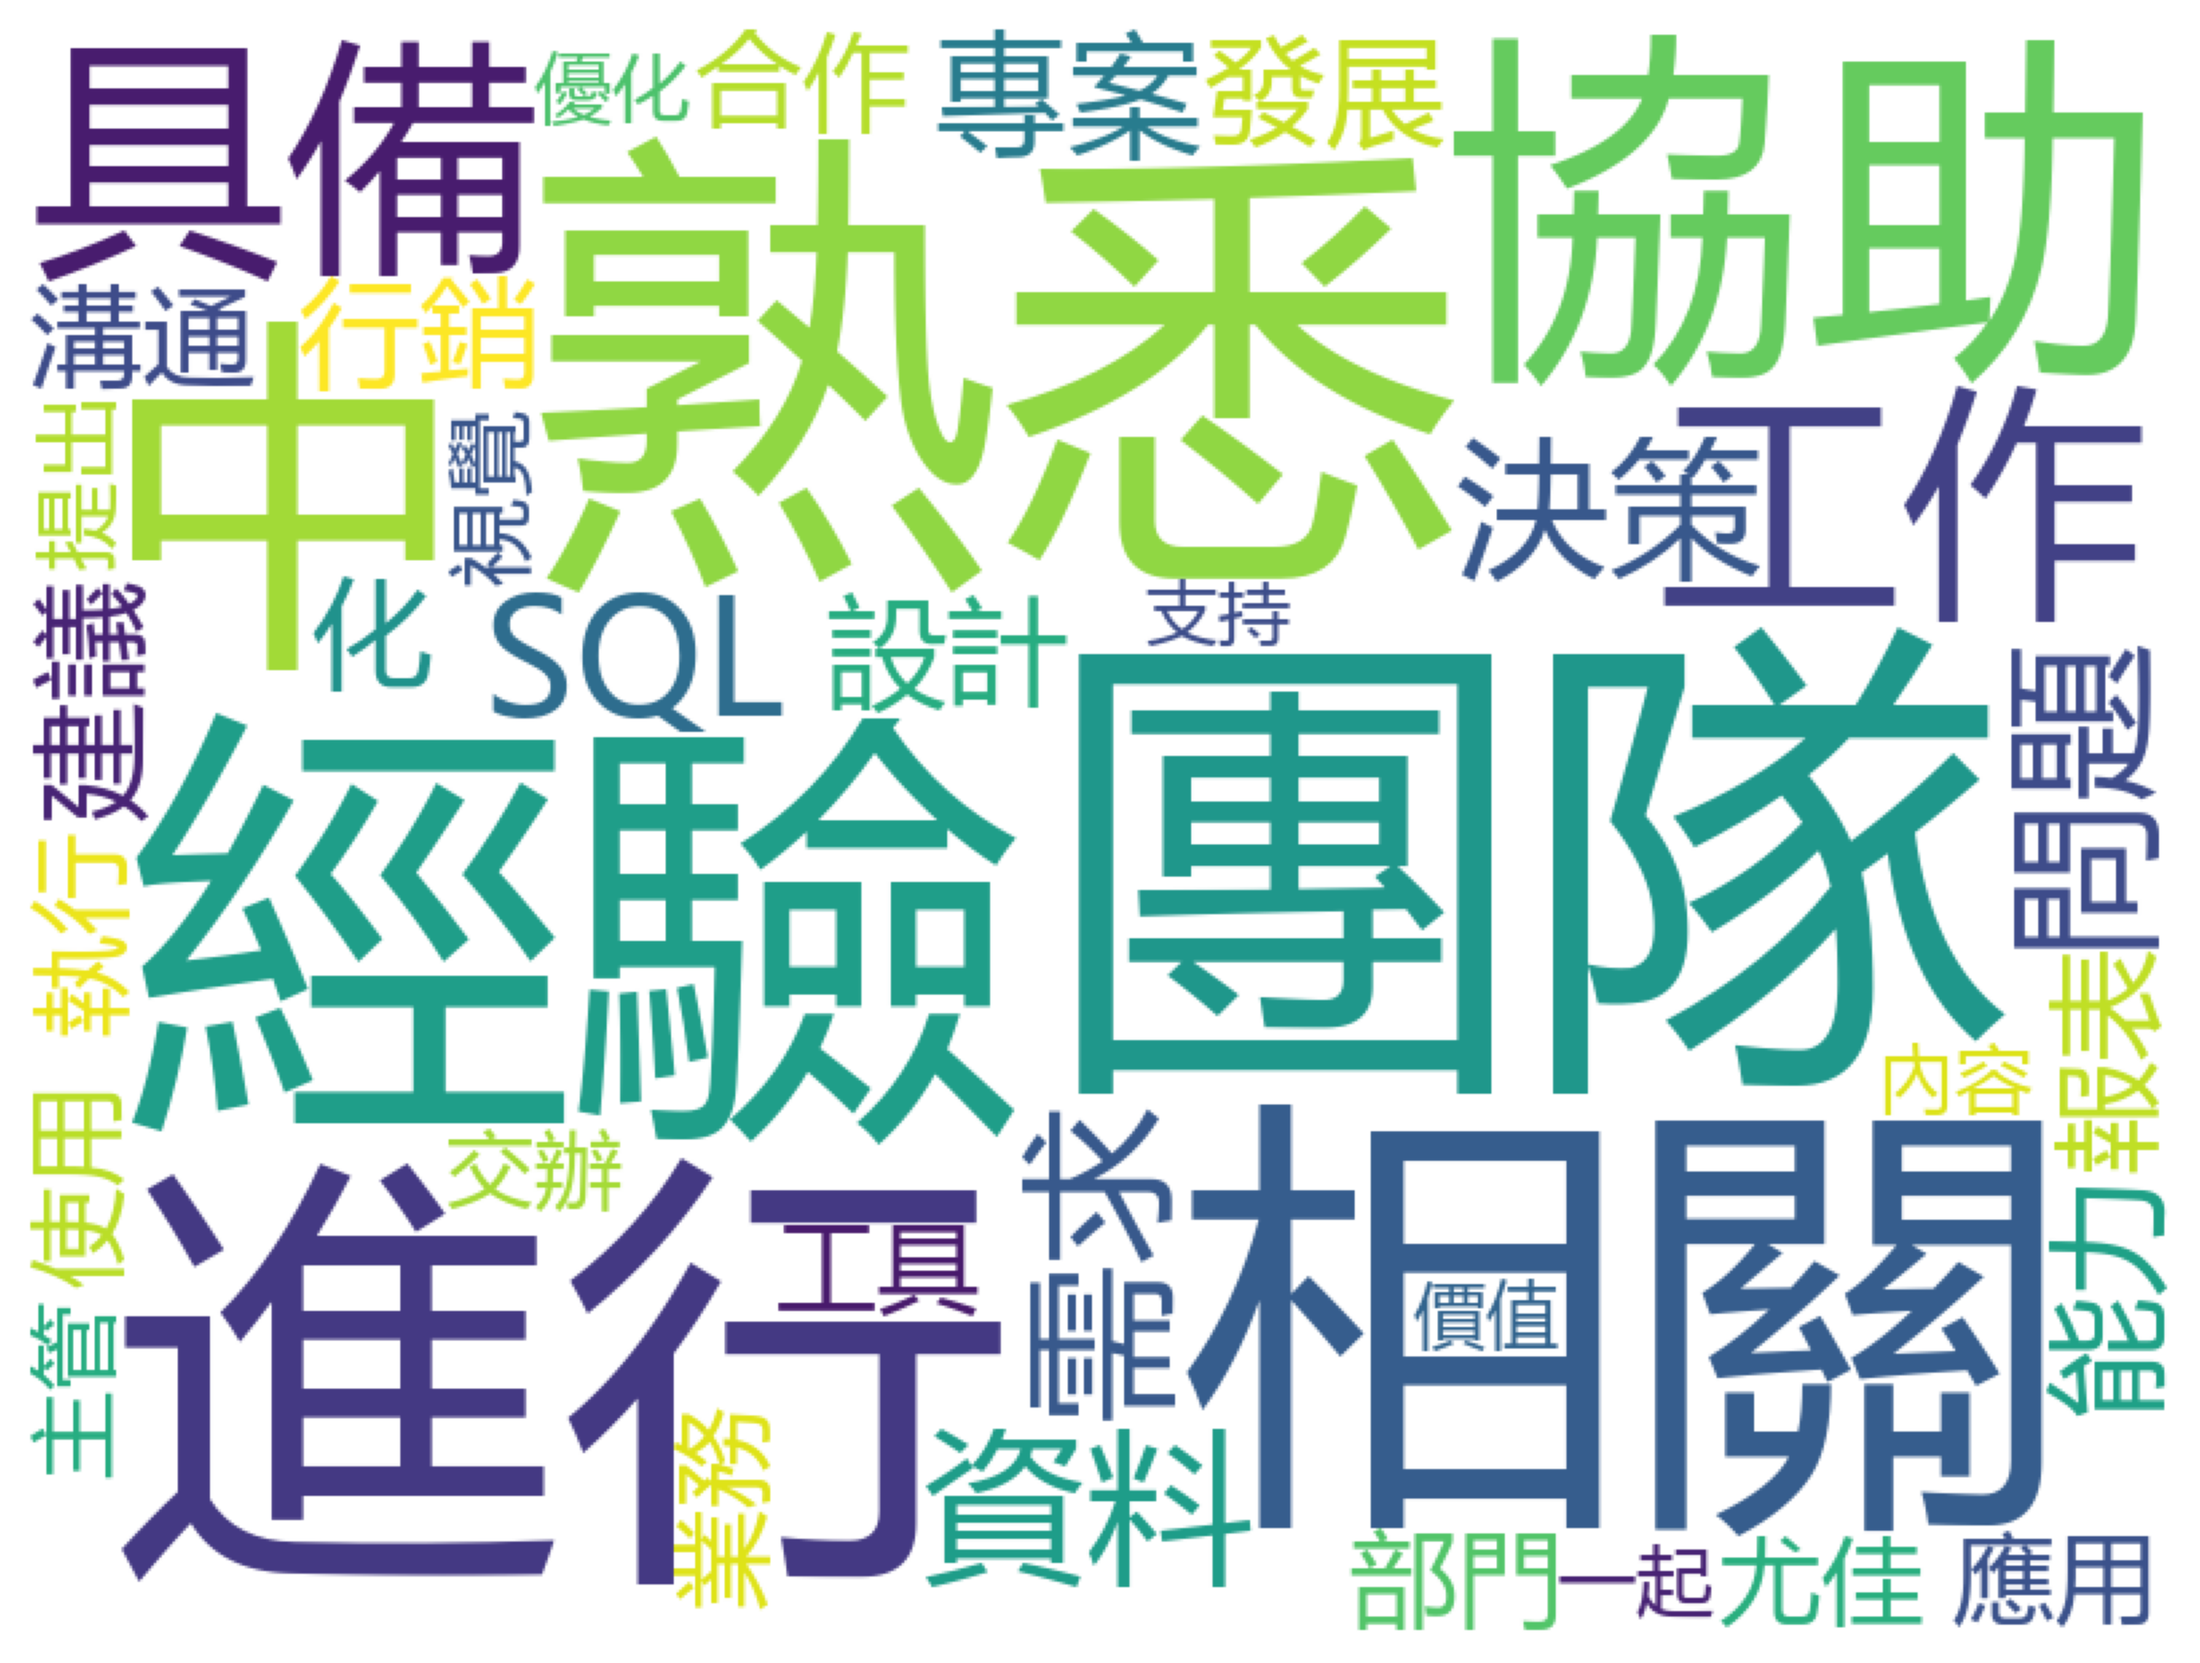
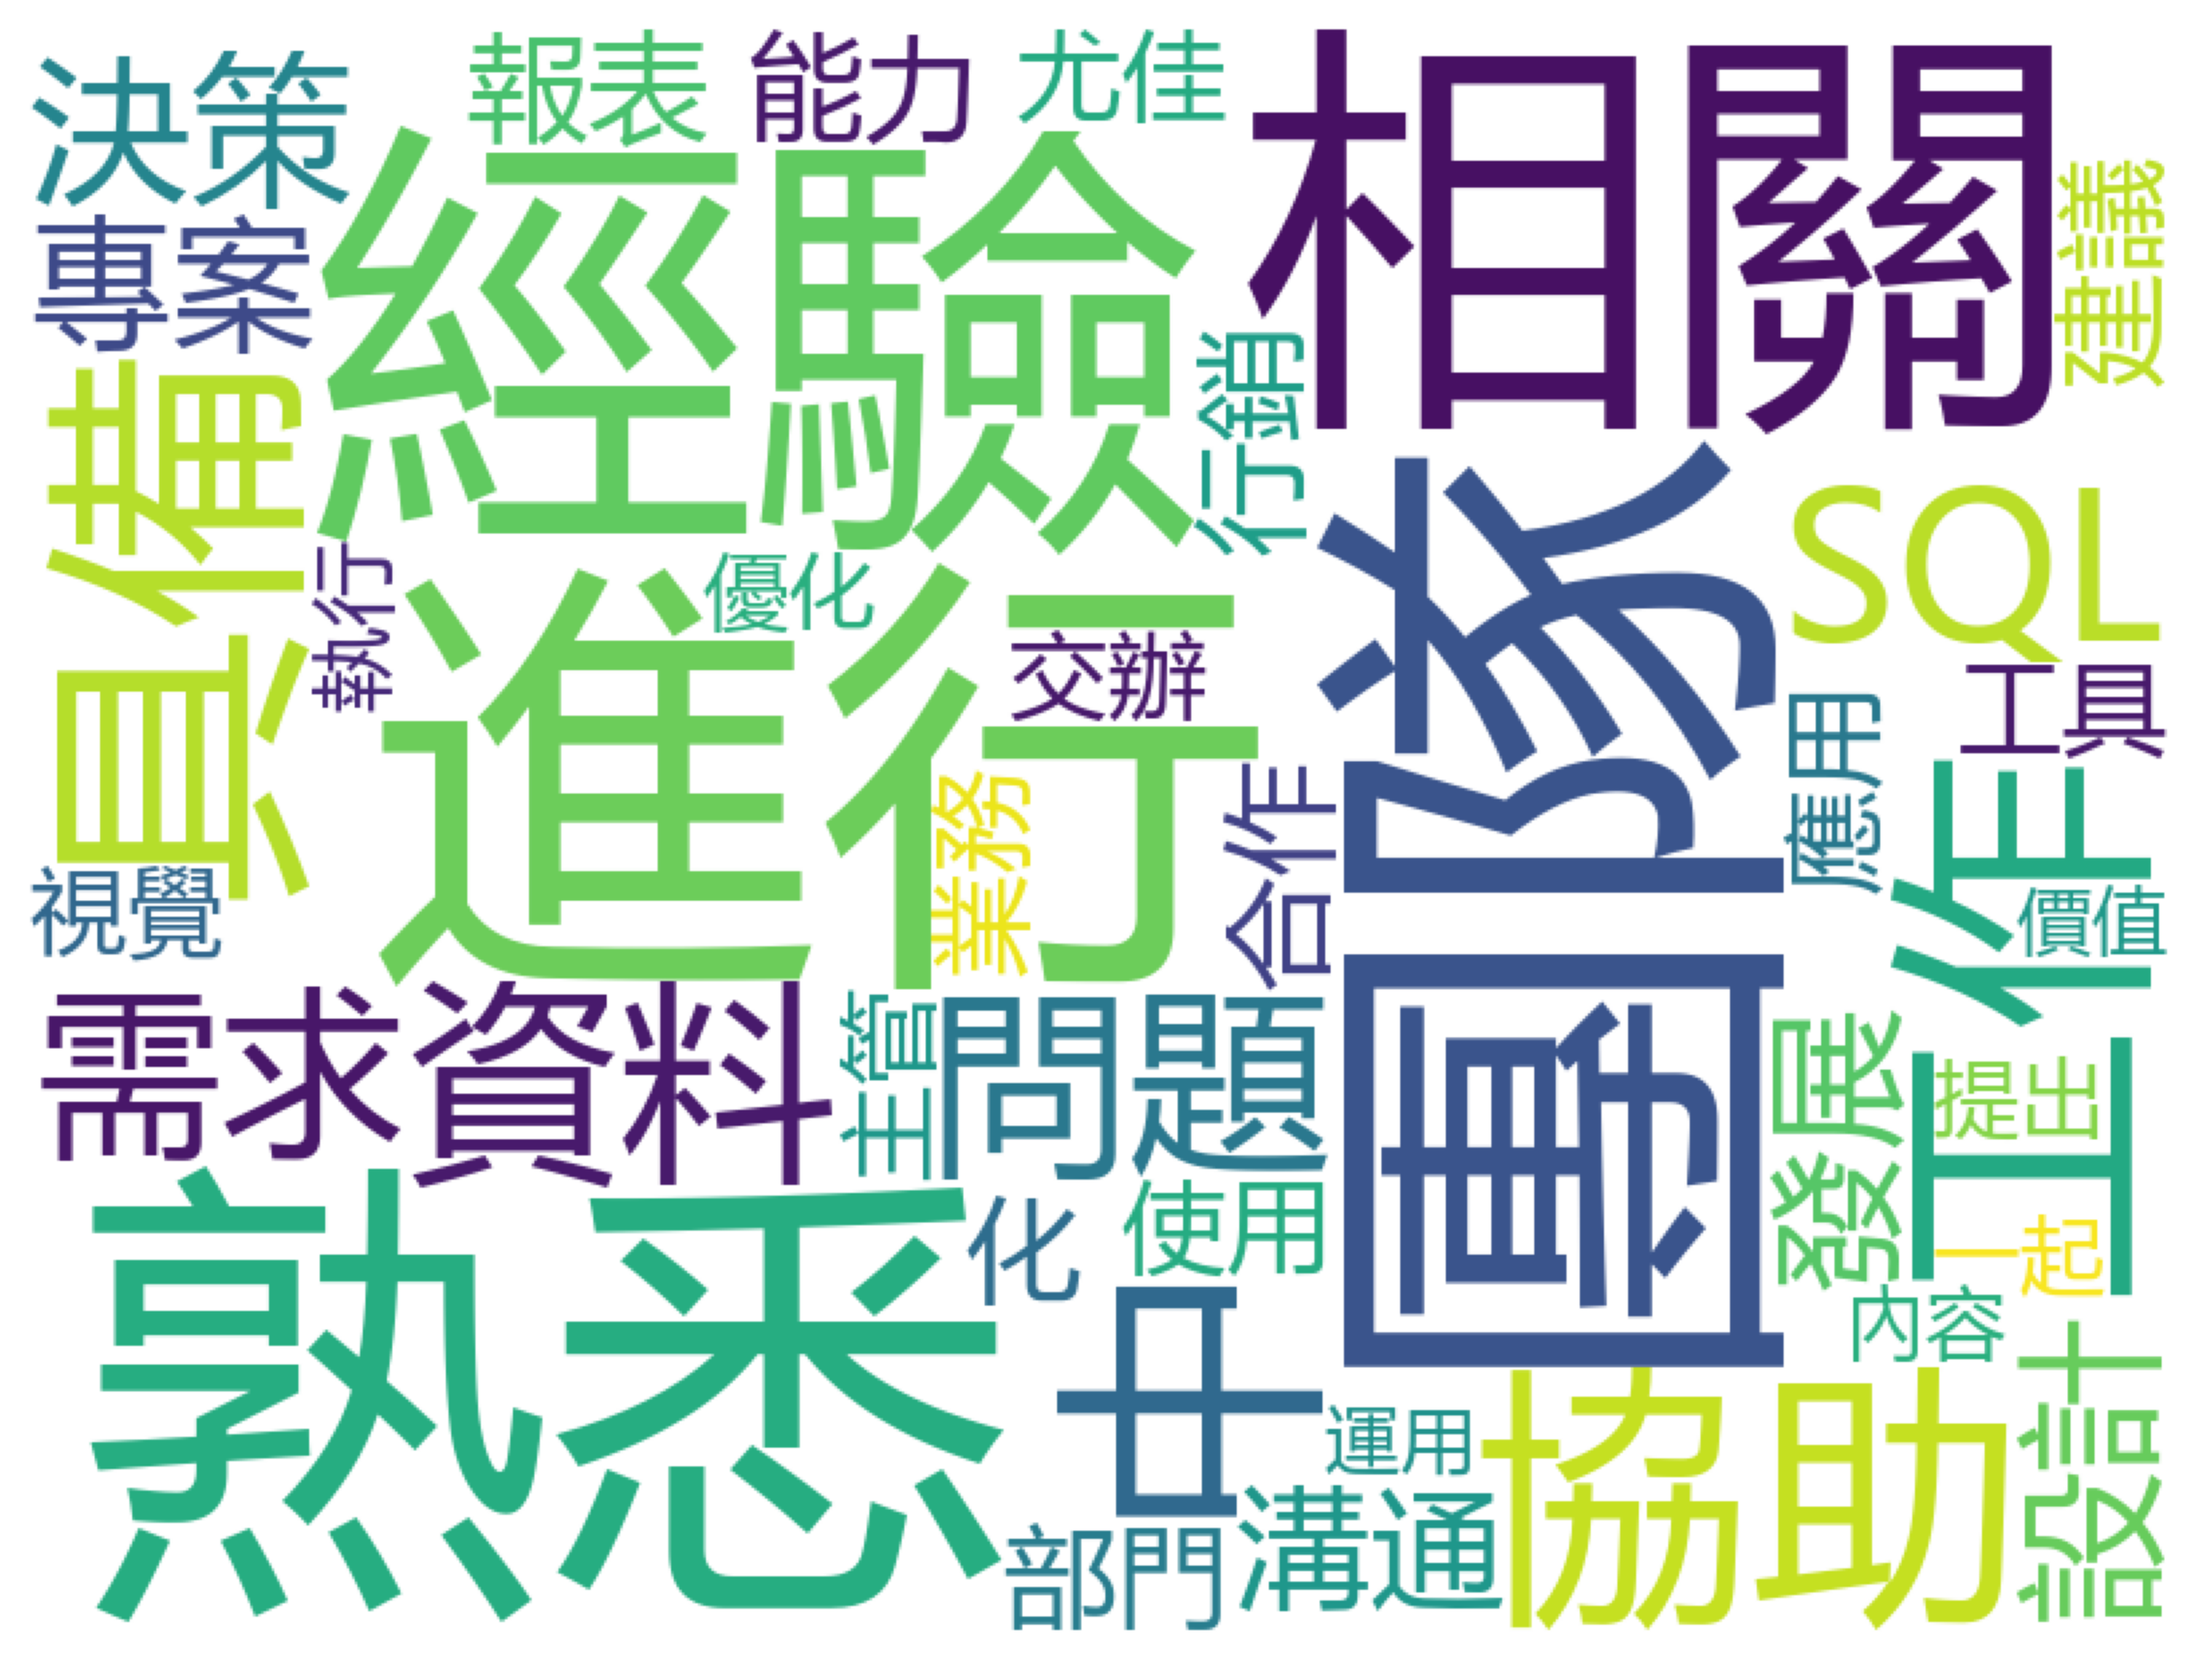
工作內容主題分析

diff --git a/104_an.py b/104_an.py
@@ -8,6 +8,8 @@ import warnings
 import jieba
 import wordcloud
 from PIL import Image
+from sklearn.feature_extraction.text import CountVectorizer
+from sklearn.decomposition import LatentDirichletAllocation
 warnings.filterwarnings('ignore')
 
 def extract_city(location):
@@ -429,40 +431,6 @@ def text_cut(sentence):
     ]
     return sentence_cut
 
-def process_jobs():
-    try:
-        # 讀取原始 CSV 檔案
-        df = pd.read_csv('104_jobs.csv', encoding='utf-8-sig')
-        
-        # 轉換工作地點為城市名稱
-        df['工作地點'] = df['工作地點'].apply(extract_city)
-        
-        # 轉換薪資為月薪平均值
-        df['薪資範圍'] = df['薪資範圍'].apply(convert_salary_to_monthly_avg)
-        
-        # 儲存新的 CSV 檔案
-        df.to_csv('104_re.csv', encoding='utf-8-sig', index=False)
-        print("已成功創建新的 CSV 檔案：104_re.csv")
-        
-        # 呼叫繪圖函數
-        plot_skills_and_categories(df)
-        
-        # 執行工具關聯性分析
-        analyze_tool_associations(df)
-        
-        # 執行薪資十分位數分析
-        analyze_salary_percentiles(df)
-
-        
-        # 執行學歷占比分析
-        analyze_education_ratio(df)
-
-        # 執行文字雲分析
-        analyze_job_content_wordcloud(df)
-
-    except Exception as e:
-        print(f"處理錯誤：{str(e)}")
-
 def analyze_education_ratio(df):
     """分析學歷占比分布"""
     try:
@@ -514,6 +482,84 @@ def analyze_education_ratio(df):
     except Exception as e:
         print(f"學歷占比分析錯誤：{str(e)}")
 
+def analyze_lda_topics(df):
+    """使用LDA進行主題分析"""
+    try:
+        # 處理工作內容文本
+        df['工作內容2'] = df['工作內容'].apply(lambda x: ' '.join(text_cut(str(x))))
+        
+        # 創建文檔詞頻矩陣
+        tf_vectorizer = CountVectorizer(
+            strip_accents='unicode',
+            max_df=0.5,
+            min_df=10
+        )
+        tf = tf_vectorizer.fit_transform(df['工作內容2'])
+        
+        # 訓練LDA模型
+        lda = LatentDirichletAllocation(
+            n_components=3,
+            max_iter=50,
+            learning_method='online',
+            learning_offset=50.,
+            random_state=0
+        )
+        lda.fit(tf)
+        
+        # 獲取特徵名稱
+        tf_feature_names = tf_vectorizer.get_feature_names_out()
+        
+        # 打印主題
+        with open('工作內容主題分析.txt', 'w', encoding='utf-8') as f:
+            for topic_idx, topic in enumerate(lda.components_):
+                top_words = [tf_feature_names[i] for i in topic.argsort()[:-21:-1]]
+                f.write(f"主題 {topic_idx + 1}:\n")
+                f.write(" ".join(top_words))
+                f.write("\n\n")
+        
+        print("已完成LDA主題分析，結果已保存到 工作內容主題分析.txt")
+        
+    except Exception as e:
+        print(f"LDA主題分析錯誤：{str(e)}")
+        import traceback
+        print(traceback.format_exc())
+
+def process_jobs():
+    try:
+        # 讀取原始 CSV 檔案
+        df = pd.read_csv('104_jobs.csv', encoding='utf-8-sig')
+        
+        # 轉換工作地點為城市名稱
+        df['工作地點'] = df['工作地點'].apply(extract_city)
+        
+        # 轉換薪資為月薪平均值
+        df['薪資範圍'] = df['薪資範圍'].apply(convert_salary_to_monthly_avg)
+        
+        # 儲存新的 CSV 檔案
+        df.to_csv('104_re.csv', encoding='utf-8-sig', index=False)
+        print("已成功創建新的 CSV 檔案：104_re.csv")
+        
+        # 呼叫繪圖函數
+        plot_skills_and_categories(df)
+        
+        # 執行工具關聯性分析
+        analyze_tool_associations(df)
+        
+        # 執行薪資十分位數分析
+        analyze_salary_percentiles(df)
+
+        
+        # 執行學歷占比分析
+        analyze_education_ratio(df)
+
+        # 執行文字雲分析
+        analyze_job_content_wordcloud(df)
+
+        # 執行LDA主題分析
+        analyze_lda_topics(df)
+
+    except Exception as e:
+        print(f"處理錯誤：{str(e)}")
 
 if __name__ == "__main__":
     process_jobs()
